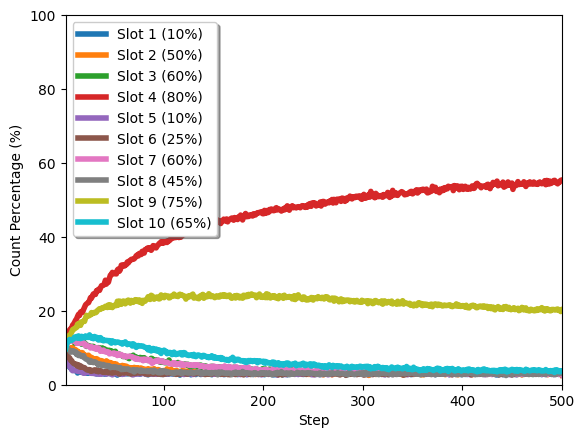
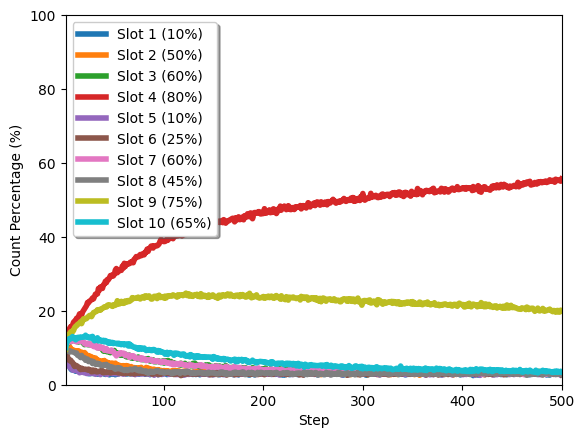
boltzmann action selection

diff --git a/cs285_hw/multi_arm_bandit/multi_armed_bandit_boltzmann.py b/cs285_hw/multi_arm_bandit/multi_armed_bandit_boltzmann.py
@@ -10,8 +10,8 @@ class Environment:
         return 1 if (np.random.random()<self.probs[slot]) else 0
 
 class MAB_Agent:
-    def __init__(self,eps,n_actions):
-        self.eps = eps
+    def __init__(self,n_actions,temp:int):
+        self.temp = temp
         self.n_actions = n_actions
         self.n = np.zeros(n_actions, dtype=int)
         self.Q = np.zeros(n_actions, dtype=float)
@@ -21,25 +21,22 @@ class MAB_Agent:
         self.Q[action]+= (1.0/self.n[action]) * (reward - self.Q[action])
 
     def get_action(self,):
-        if np.random.random() < self.eps:
-            #exploration
-            return np.random.randint(self.n_actions)
-        else:
-            #exploitation
-            #uniform over max returns, dont always go for argmax slots
-            best_val = np.max(self.Q)
-            best_slots = np.where(self.Q == best_val)[0]
-            return np.random.choice(best_slots)
+        logits = self.Q/self.temp
+        logits = logits - np.max(logits)
+        exp_logits = np.exp(logits)
+        probs = exp_logits/np.sum(exp_logits)
+
+        return np.random.choice(self.n_actions,p=probs)
 
 class MultiArmedBandit:
-    def __init__(self,n_arms,probs,eps=0.1):
+    def __init__(self,n_arms,probs,temp):
         self.n_arms = n_arms
         self.probs = probs
-        self.eps = eps
+        self.temp= temp
 
     def step(self,N_steps):
         env = Environment(self.probs)
-        agent = MAB_Agent(self.eps,self.n_arms)
+        agent = MAB_Agent(self.n_arms,self.temp)
         actions,rewards = [],[]
         for i in range(N_steps):
             action = agent.get_action()
@@ -57,6 +54,7 @@ class MultiArmedBandit:
             actions, rewards = self.step(N_steps) 
             if (i + 1) % (N_experiments / 100) == 0:
                 print("[Experiment {}/{}] ".format(i + 1, N_experiments) +
+                    "temp = {}, ".format(self.temp) +
                     "n_steps = {}, ".format(N_steps) +
                     "reward_avg = {}".format(np.sum(rewards) / len(rewards)))
             R += rewards
@@ -67,39 +65,48 @@ class MultiArmedBandit:
 import os
 
 probs=[0.10, 0.50, 0.60, 0.80, 0.10, 0.25, 0.60, 0.45, 0.75, 0.65]
-eps=0.3
-solve=MultiArmedBandit(len(probs), probs, eps=eps)
+temp = [0.01,0.05,0.1,0.3,0.5] #reward across varying temperature.
 N_experiments=10000 
 N_steps=500 
+Rewards:list[np.ndarray] =[]
+Actions:list[np.ndarray] =[]
+for temperature in temp:
+    solve=MultiArmedBandit(len(probs), probs,temperature)
+    R,A = solve.multi_step(N_steps,N_experiments)
+    Rewards.append(R)
+    Actions.append(A)
 
 
-R,A = solve.multi_step(N_steps,N_experiments)
+for i,R in enumerate(Rewards):
+    R_avg = R/np.float32(N_experiments)
+    print(R_avg.shape)
+    plt.plot(R_avg,".",label="T = {}".format(temp[i]))
 
-save_fig = True 
-output_dir = os.getcwd()
-
-
-#plots
-R_avg = R/np.float32(N_experiments)
-print(R_avg.shape)
-plt.plot(R_avg,".")
 plt.xlabel("Step")
 plt.ylabel("Average Reward")
 plt.grid()
 plt.xlim([1,N_steps])
+
+
+save_fig = True 
+output_dir = os.getcwd()
+plt.legend()
+
 if save_fig:
     if not os.path.exists(output_dir): os.mkdir(output_dir)
-    plt.savefig(os.path.join(output_dir, "rewards_{}.png".format(eps)), bbox_inches="tight")
+    plt.savefig(os.path.join(output_dir, "rewards_boltzmann.png"), bbox_inches="tight")
 else:
     plt.show()
 plt.close()
 
-for i in range(len(probs)):
-    slot_i_actions = 100 * A[:,i]/N_experiments
+optimal_arm = np.argmax(probs)
+#plotting only the optimal action
+for idx,A in enumerate(Actions):
+    slot_i_actions = 100 * A[:,optimal_arm]/N_experiments
     steps = list(np.array(range(len(slot_i_actions)))+1)
     plt.plot(steps, slot_i_actions, "-",
-             linewidth=4,
-             label="Slot {} ({:.0f}%)".format(i+1, 100*probs[i]))
+            linewidth=3,
+            label="T = {}".format(temp[idx]))
 
 plt.xlabel("Step")
 plt.ylabel("Count Percentage (%)")
@@ -111,7 +118,7 @@ for legobj in leg.legendHandles:
     legobj.set_linewidth(4.0)
 if save_fig:
     if not os.path.exists(output_dir): os.mkdir(output_dir)
-    plt.savefig(os.path.join(output_dir, "actions_{}.png".format(eps)), bbox_inches="tight")
+    plt.savefig(os.path.join(output_dir, "actions_boltzmann.png"), bbox_inches="tight")
 else:
     plt.show()
 plt.close()
